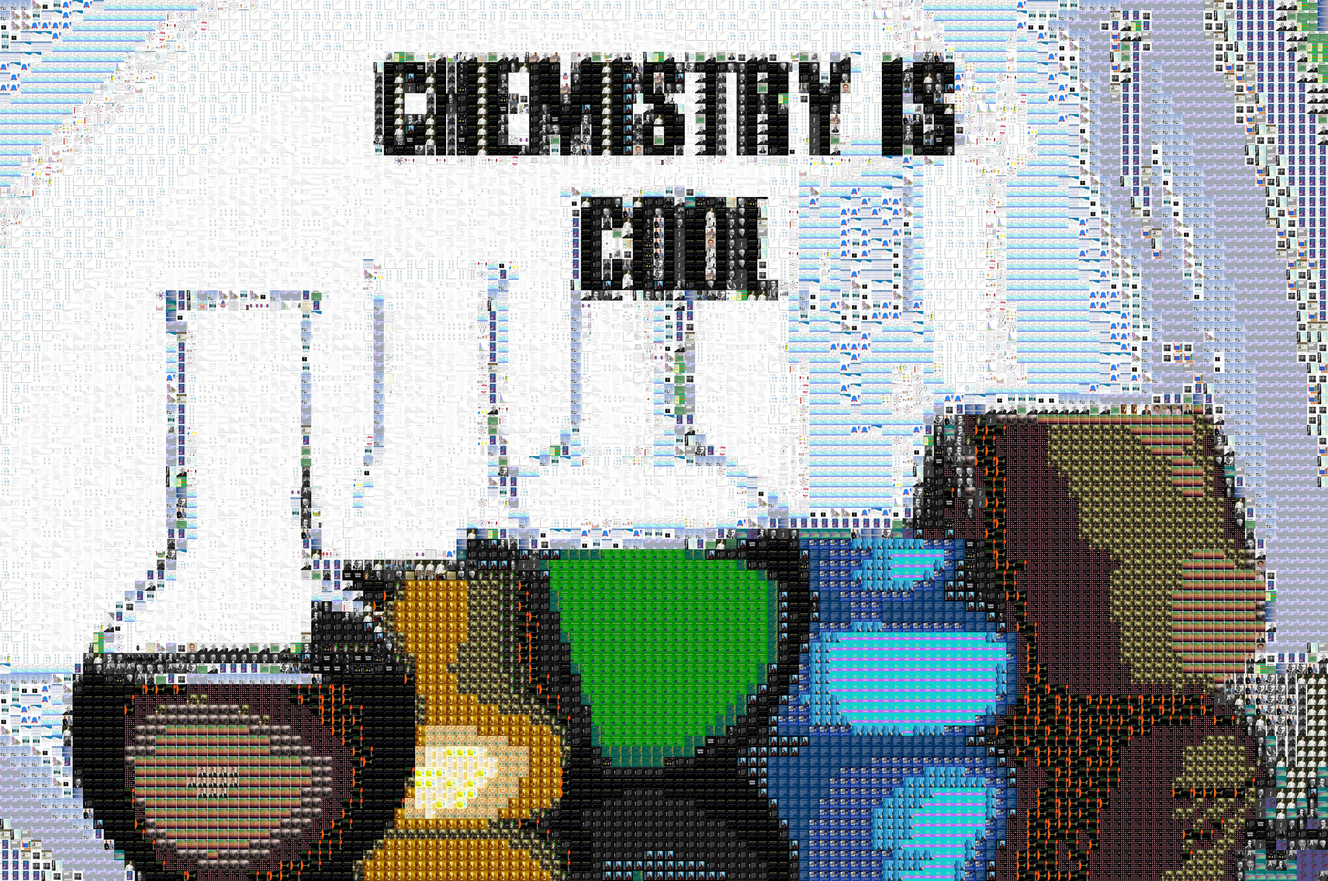
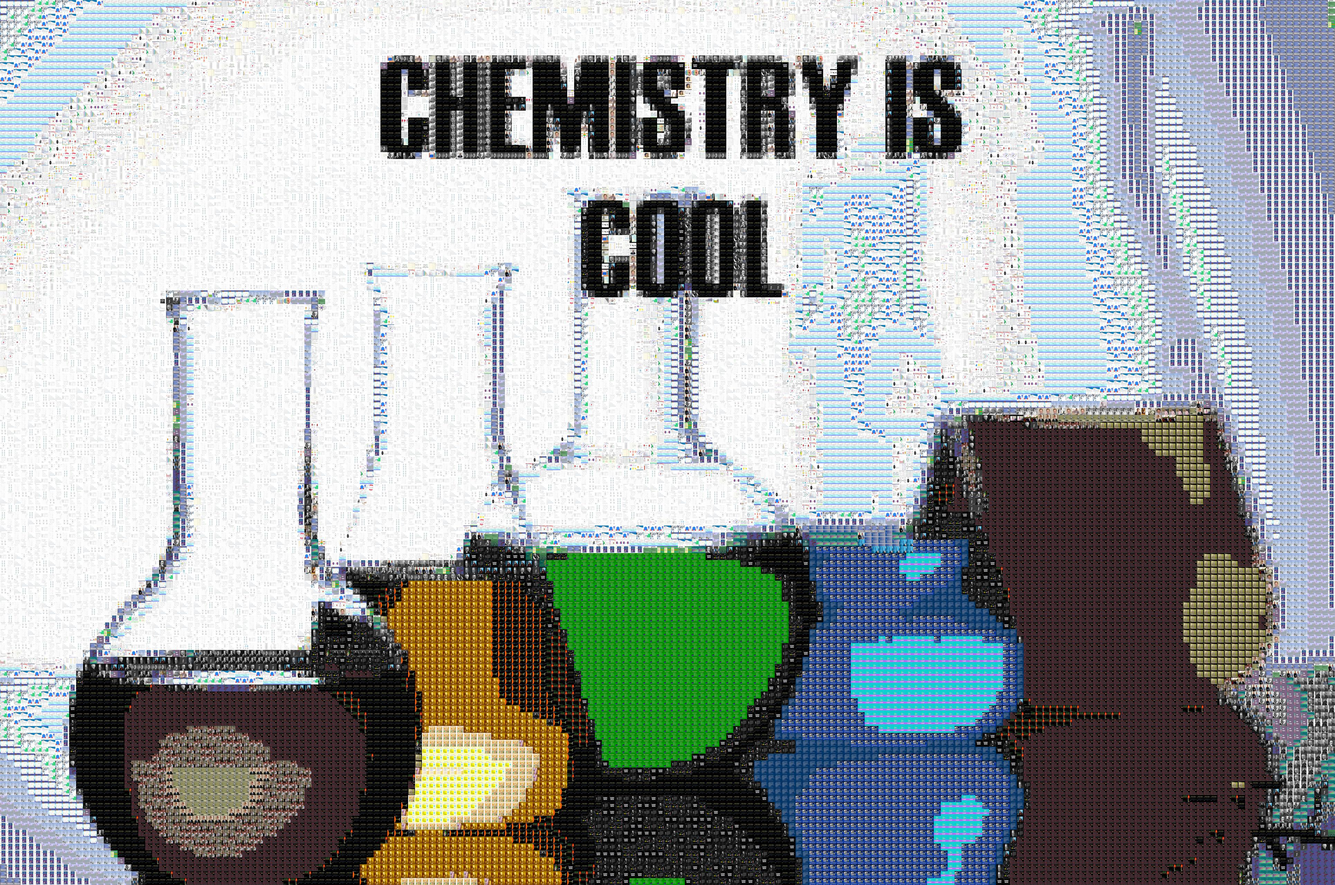
added commandline functionality

diff --git a/photomosaic.py b/photomosaic.py
@@ -1,4 +1,5 @@
 import math
+import argparse
 import random
 import re
 from PIL import Image
@@ -82,8 +83,60 @@ def build_image(search_term, block_size, base_image_filename, output_filename, t
         patch.close()
     new_image.save(output_filename)
 
-def main(search_term, block_size, base_image_filename, output_filename):
-    build_image(search_term, block_size, base_image_filename, output_filename, thresh = 10)
+def main():
+    global topics
+    parser = argparse.ArgumentParser(
+        description="if you put nothing the example program will run"
+    )
+    parser.add_argument(
+        "-i",
+        "--input",
+        nargs='?',
+        type=str,
+        default="chemistry.jpg",
+        help="input filename"
+    )
+    parser.add_argument(
+        "-m",
+        "--main",
+        nargs='?',
+        type=str,
+        default='chemistry',
+        help="main search_term",
+    )
+    parser.add_argument(
+        "-s",
+        "--subtopics",
+        nargs='+',
+        default=topics,
+        help="subtopics to build image"
+    )
+    parser.add_argument(
+        "-d",
+        "--dim",
+        type=int,
+        default=20,
+        help="dxd pixel dimension of sub image in photomosaic"
+    )
+    parser.add_argument(
+        "-o",
+        "--output",
+        nargs='?',
+        type=str,
+        default="bnh2128mosaic.jpg",
+        help="output filename"
+    )
+    parser.add_argument(
+        "-t",
+        "--thresh",
+        type=int,
+        default=10,
+        help="euclidean distance threshold for grouping average color of main image."
+    )
+    args = parser.parse_args()
+    topics = args.subtopics
+    build_image(args.main, args.dim, args.input, args.output, thresh = args.thresh)
 
-if __name__ == '__main__':
-    main('chemistry', 30,'chemistry.jpg','bnh2128mosaic.jpg')
+if __name__ == "__main__":
+    main()
+
